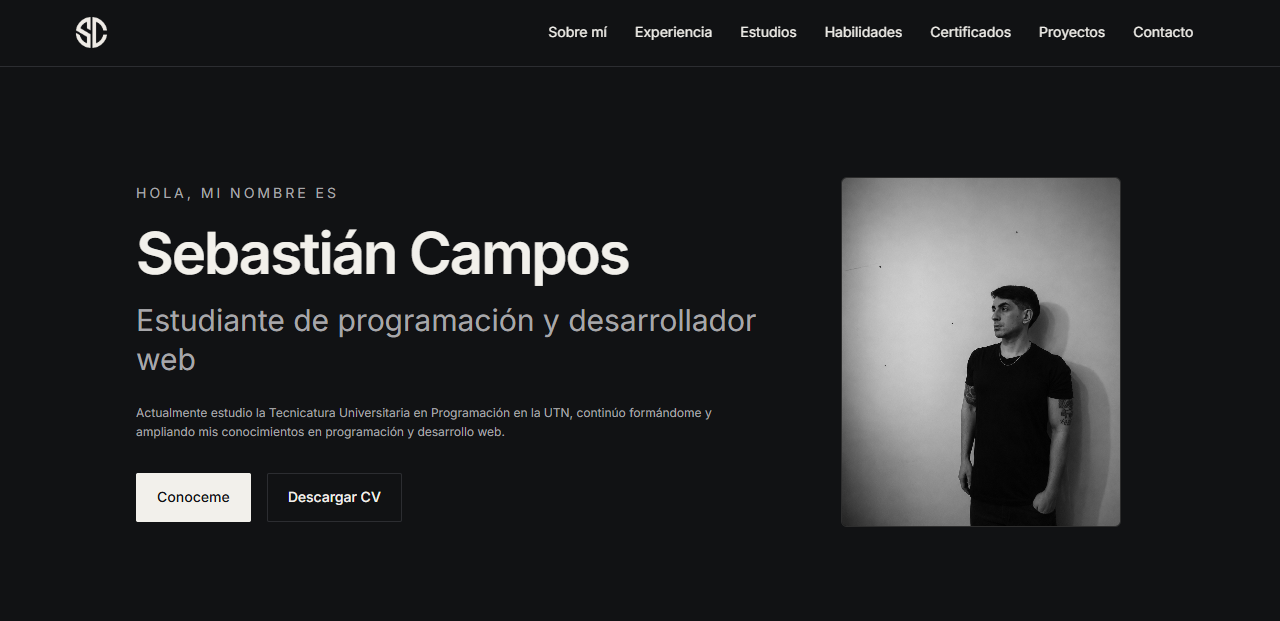
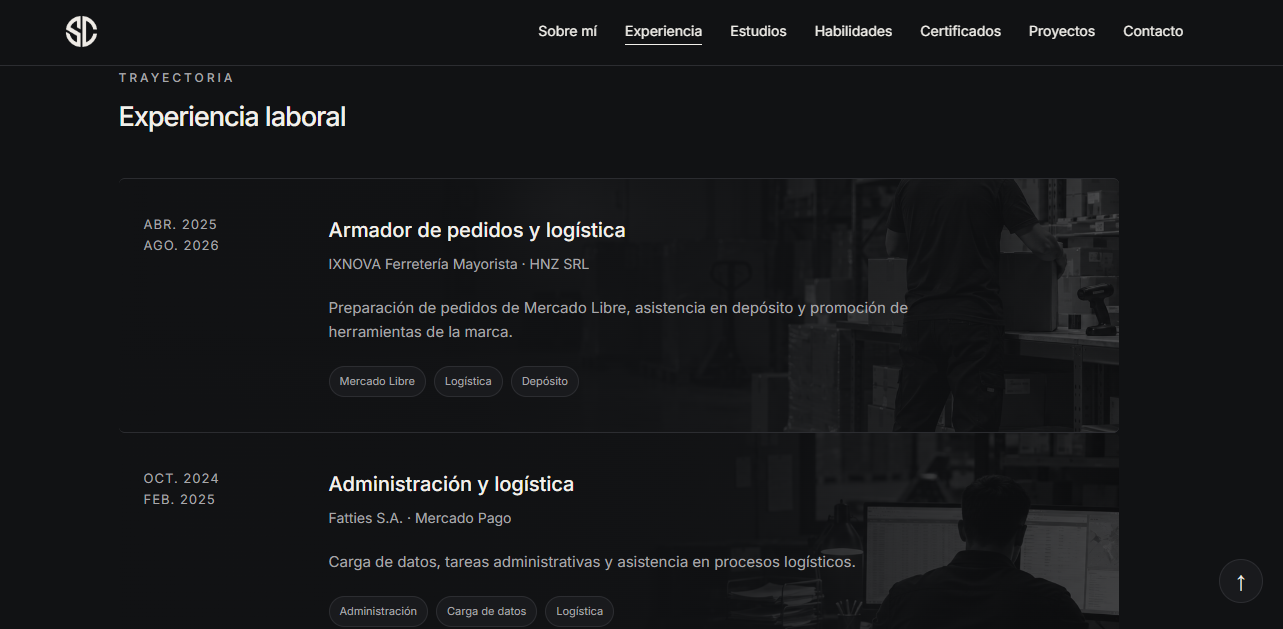
Finalizando el proyecto WEB

diff --git a/index.html b/index.html
@@ -507,17 +507,25 @@
           <!-- Proyecto 1 -->
           <article class="proyecto">
             <div class="proyecto-imagen">
-              <img
-              class="proyecto-captura"
-              src="img/proyectos/cv-web.png"
-              alt="Vista de inicio del CV web de Sebastián Campos"
-              >
+              <div class="mockup-monitor">
+                <div class="mockup-pantalla">
+                  <img
+                  class="proyecto-captura"
+                  src="img/proyectos/cv-web.png"
+                  alt="Vista de inicio del CV web de Sebastián Campos"
+                  >
+                </div>
+                <div class="mockup-soporte">
+                  <div class="mockup-cuello"></div>
+                  <div class="mockup-base"></div>
+                </div>
+              </div>
            </div>
 
             <div class="proyecto-informacion">
               <div class="proyecto-encabezado">
                 <p class="proyecto-numero">Proyecto 01</p>
-                <span class="estado-proyecto">En desarrollo</span>
+                <span class="estado-proyecto">Finalizado</span>
               </div>
 
               <h3>CV Web Personal</h3>
@@ -540,11 +548,19 @@
           <!-- Proyecto 2 -->
           <article class="proyecto proyecto-invertido">
             <div class="proyecto-imagen">
-              <img
-              class="proyecto-captura"
-              src="img/proyectos/fc-servicio-tecnico.png"
-              alt="Vista de inicio del sitio web de FC Servicio Técnico"
-              >
+              <div class="mockup-monitor">
+                <div class="mockup-pantalla">
+                  <img
+                  class="proyecto-captura"
+                  src="img/proyectos/fc-servicio-tecnico.png"
+                  alt="Vista de inicio del sitio web de FC Servicio Técnico"
+                  >
+                </div>
+                <div class="mockup-soporte">
+                  <div class="mockup-cuello"></div>
+                  <div class="mockup-base"></div>
+                </div>
+              </div>
             </div>
 
             <div class="proyecto-informacion">
@@ -571,9 +587,21 @@
           <!-- Proyecto 3 -->
           <article class="proyecto">
             <div class="proyecto-imagen">
-              <div class="imagen-provisoria">
-                Próximamente agregaremos una captura
+              <div class="mockup-monitor">
+                <div class="mockup-pantalla">
+                  <img
+                  class="proyecto-captura"
+                  src="img/proyectos/sistema-gestion-stock.svg"
+                  alt="Vista previa del panel del sistema de gestión de stock"
+                  >
+                </div>
+                <div class="mockup-soporte">
+                  <div class="mockup-cuello"></div>
+                  <div class="mockup-base"></div>
+                </div>
               </div>
+
+              <p class="mockup-etiqueta">Vista previa conceptual</p>
             </div>
 
             <div class="proyecto-informacion">

diff --git a/css/estilos.css b/css/estilos.css
@@ -744,7 +744,7 @@ body {
 
 .proyecto {
   display: grid;
-  grid-template-columns: 1.1fr 1fr;
+  grid-template-columns: 1fr 1fr;
   align-items: center;
   gap: 45px;
 }
@@ -761,21 +761,80 @@ body {
   width: 100%;
 }
 
-.proyecto-captura {
-    width: 100%;
-    height: auto;
-    display: block;
-    object-fit: contain;
-    border: 1px solid var(--borde);
-    border-radius: 6px;
-    transition:
-        transform 0.4s ease,
-        opacity 0.4s ease;
+.mockup-monitor {
+  width: 100%;
+  max-width: 460px;
+  margin: 0 auto;
+  display: flex;
+  flex-direction: column;
+  align-items: center;
 }
 
-.proyecto-captura:hover {
-    opacity: 0.9;
-    transform: scale(1.01);
+.mockup-pantalla {
+  position: relative;
+  width: 100%;
+  overflow: hidden;
+  padding: 10px 10px 8px;
+  background: linear-gradient(165deg, #232429, #17181b 75%);
+  border: 1px solid var(--borde);
+  border-radius: 16px;
+  box-shadow:
+      inset 0 1px 0 rgba(255, 255, 255, 0.05),
+      0 24px 48px rgba(0, 0, 0, 0.4);
+  transition:
+      transform 0.4s ease,
+      opacity 0.4s ease;
+}
+
+.mockup-pantalla::before {
+  content: "";
+  position: absolute;
+  top: 4px;
+  left: 50%;
+  width: 4px;
+  height: 4px;
+  transform: translateX(-50%);
+  border-radius: 50%;
+  background-color: #4a4b52;
+}
+
+.mockup-pantalla:hover {
+  opacity: 0.9;
+  transform: scale(1.01);
+}
+
+.mockup-soporte {
+  display: flex;
+  flex-direction: column;
+  align-items: center;
+  margin-top: 10px;
+}
+
+.mockup-cuello {
+  width: 36px;
+  height: 14px;
+  background: linear-gradient(180deg, #232429, #17181b);
+  border: 1px solid var(--borde);
+  border-top: none;
+  border-radius: 0 0 4px 4px;
+}
+
+.mockup-base {
+  width: 130px;
+  height: 8px;
+  margin-top: -1px;
+  background: linear-gradient(180deg, #26272c, #18191c);
+  border: 1px solid var(--borde);
+  border-radius: 50%;
+}
+
+.proyecto-captura {
+    width: 100%;
+    aspect-ratio: 2.1 / 1;
+    display: block;
+    border-radius: 8px;
+    object-fit: cover;
+    object-position: top;
 }
 
 .imagen-provisoria {
@@ -813,6 +872,15 @@ body {
   border-radius: 20px;
   font-size: 10px;
   letter-spacing: 1px;
+  text-transform: uppercase;
+}
+
+.mockup-etiqueta {
+  margin-top: 14px;
+  color: var(--texto-secundario);
+  font-size: 11px;
+  letter-spacing: 1px;
+  text-align: center;
   text-transform: uppercase;
 }
 
